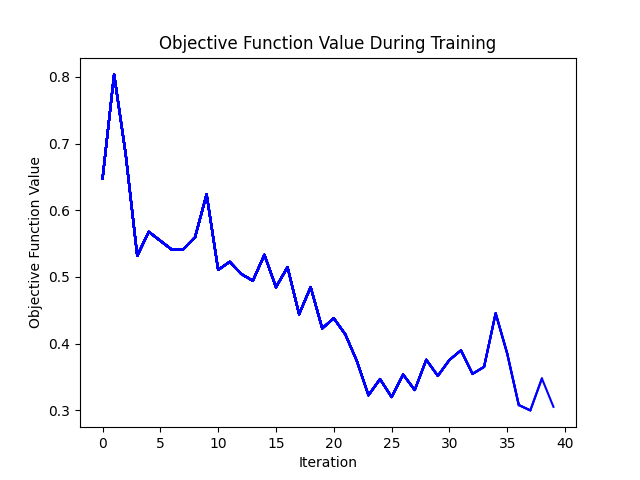
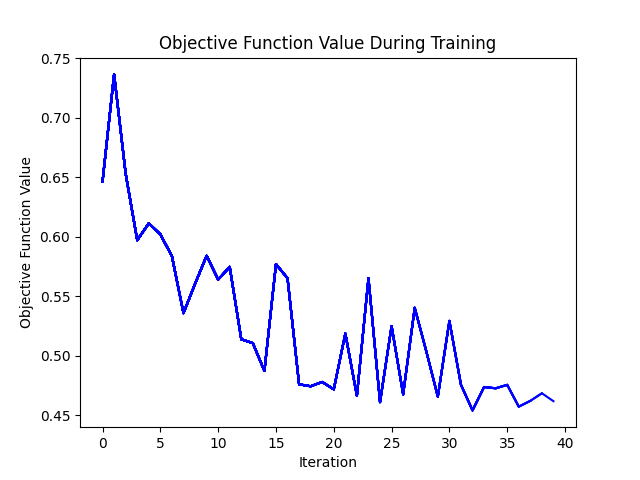
The badge was added to the readme.md

diff --git a/GQNN/examples/save&load.py b/GQNN/examples/save&load.py
@@ -1,0 +1,38 @@
+from GQNN.models.regression_model import QuantumRegressor_EstimatorQNN_CPU as QER
+# import pickle
+# model = QER(num_qubits=4)
+# model.load_model('D:\Projects\GQNN\EstimatorQNN_model.model')
+# model.print_model()
+# print("Loaded model weights:", model.weights)
+
+# if model.weights is None:
+#     print("Restoring weights manually...")
+#     with open("EstimatorQNN_model_weights.pkl", "rb") as f:
+#         model.weights = pickle.load(f)
+
+# print("Loaded Model Weights:", model.weights)
+
+
+# from joblib import load
+
+# model = load('D:\Projects\GQNN\EstimatorQNN_model.model')
+# print("Loaded model weights:", model.weights)
+# print("Model Type:", type(model))
+# print("Available Methods:", dir(model))  # Lists all available methods
+# print(model.predict([[0.11, 1, 3, 4]]))  # Predict using the loaded
+
+# if hasattr(model.neural_network, "summary"):
+#     model.neural_network.summary()
+# else:
+#     print("No summary method available.")
+
+
+# model = QER.load_model('D:\Projects\GQNN\EstimatorQNN_model.model')
+# print("Type of loaded model:", type(model))  # Should be <class 'GQNN.models.RegressionModel'>
+
+# if isinstance(model, str):
+#     print("❌ ERROR: Model is a string instead of an object.")
+from qiskit.circuit.library import ZZFeatureMap, RealAmplitudes
+
+feature_map = ZZFeatureMap(2)  # Reduce complexity
+ansatz = RealAmplitudes(2, reps=1)  # Fewer reps reduce overfitting

diff --git a/GQNN/models/regression_model.py b/GQNN/models/regression_model.py
@@ -37,7 +37,7 @@ class QuantumRegressor_EstimatorQNN_CPU:
             Saves the quantum circuit as an image and prints the model weights.
     """
     
-    def __init__(self, num_qubits: int, maxiter: int = 30):
+    def __init__(self, num_qubits: int, maxiter: int | int = 30):
         """
         Initializes the QuantumRegressor with the specified parameters.
         
@@ -59,7 +59,7 @@ class QuantumRegressor_EstimatorQNN_CPU:
         self.optimizer = COBYLA(maxiter=maxiter)
         self.regressor = NeuralNetworkRegressor(
             neural_network=self.estimator_qnn,
-            loss="squared_error",
+            loss="absolute_error",
             optimizer=self.optimizer,
             callback=self._callback_graph
         )
@@ -172,7 +172,7 @@ class QuantumRegressor_VQR_CPU:
         weights (np.ndarray or None): Learned weights of the trained quantum model.
     """
     
-    def __init__(self, num_qubits: int = 1, maxiter: int = 5):
+    def __init__(self, num_qubits: int , maxiter: int |int = 5):
         """
         Initializes the Quantum Regressor with the given number of qubits and optimization iterations.
 

diff --git a/GQNN/examples/dataset_load.py b/GQNN/examples/dataset_load.py
@@ -3,7 +3,7 @@ from GQNN.models.data_split import DataSplitter
 from GQNN.models.classification_model import QuantumClassifier_EstimatorQNN_CPU, QuantumClassifier_SamplerQNN_CPU,VariationalQuantumClassifier_CPU
 import numpy as np
 from GQNN.models.regression_model import QuantumRegressor_EstimatorQNN_CPU
-
+from joblib import dump
 # Path to dataset
 data_dir = 'D:\\Projects\\GQNN\\GQNN\\examples\\Employee_Salary_Dataset.csv'
 
@@ -70,7 +70,8 @@ regression_model.fit(x_train, y_train)
 
 # Print the trained model's parameters
 regression_model.print_model()
+# dump(regression_model, 'EstimatorQNN_model.model')
 
 model_2_score = regression_model.score(x_test, y_test)
 
-print(f"Model accuracy (VariationalQuantumClassifier_CPU): {model_2_score * 100:.2f}%")
+print(f"Model accuracy : {model_2_score * 100:.2f}%")

diff --git a/setup.py b/setup.py
@@ -2,7 +2,7 @@ from setuptools import setup, find_packages
 
 setup(
     name='GQNN',
-    version='1.0.0',
+    version='1.0.1',
     author='GokulRaj S',
     author_email='gokulsenthil0906@gmail.com', 
     description=(
